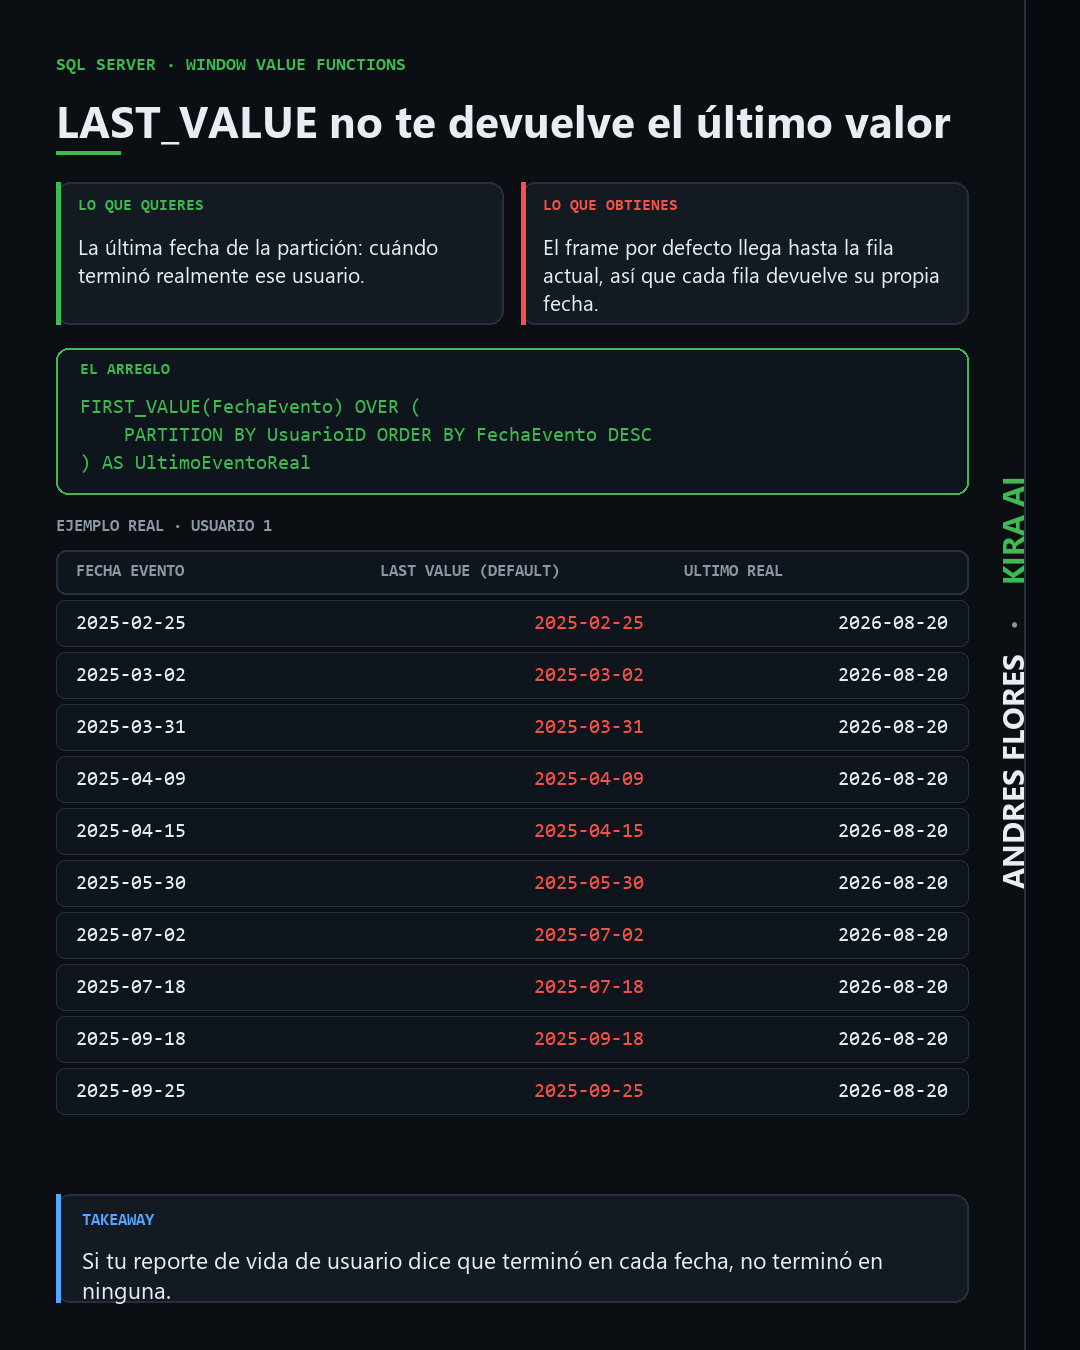
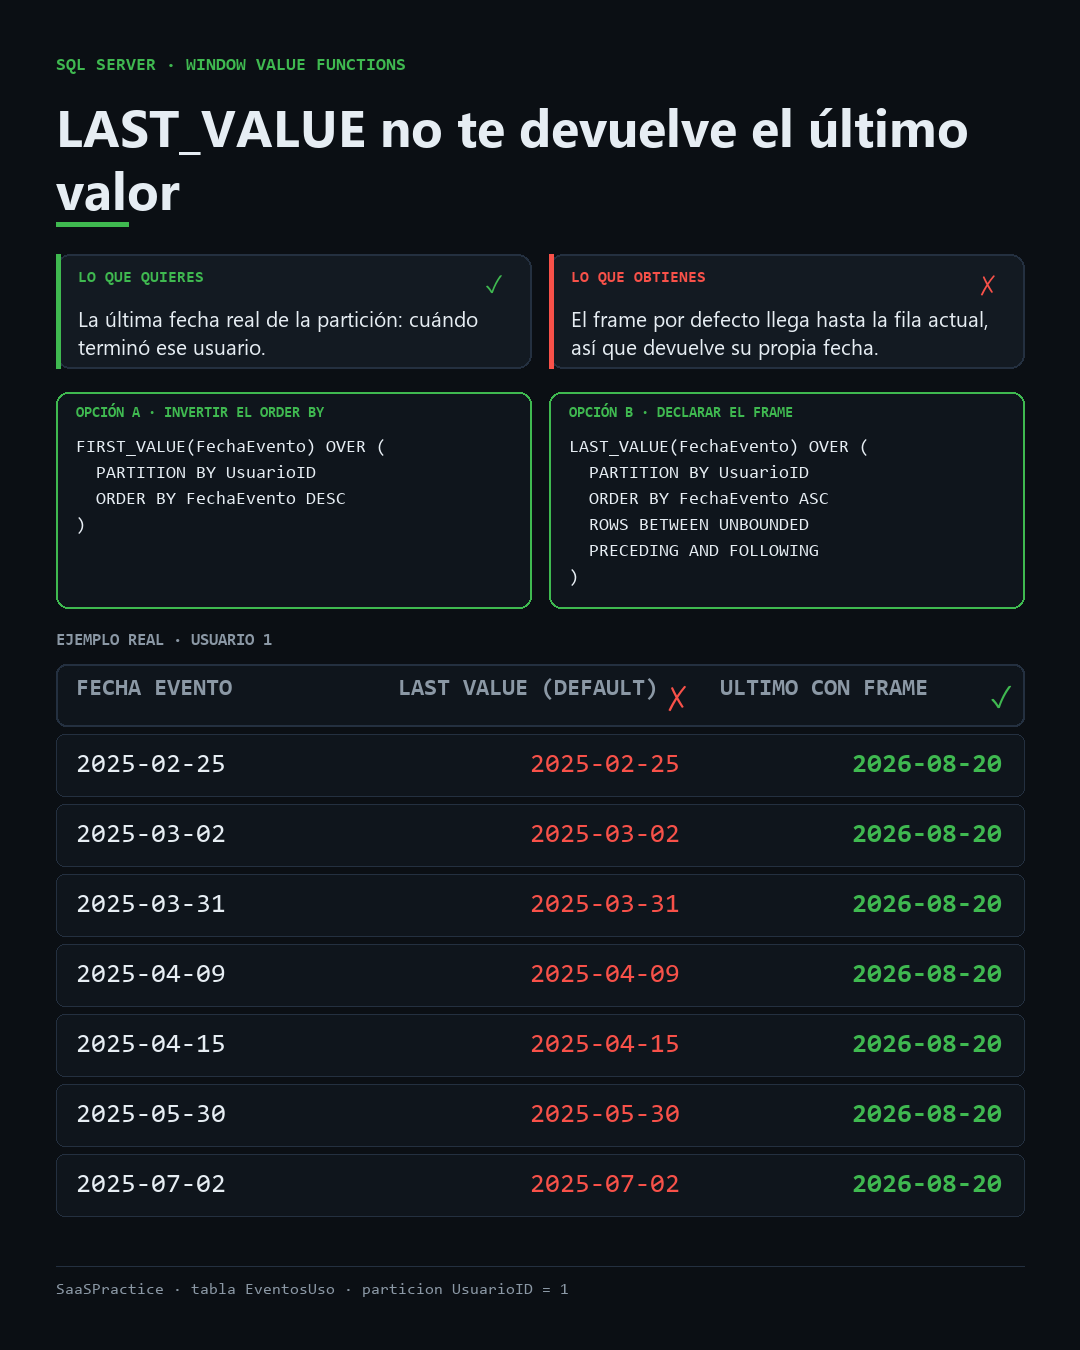
feat: make post images signature-free with badges, multi-solution fix block and footer

diff --git a/scripts/generar-imagen-post.py b/scripts/generar-imagen-post.py
@@ -22,6 +22,7 @@ MONO = os.path.join(FONT_DIR, "consola.ttf")
 MONO_B = os.path.join(FONT_DIR, "consolab.ttf")
 SANS = os.path.join(FONT_DIR, "segoeui.ttf")
 SANS_B = os.path.join(FONT_DIR, "segoeuib.ttf")
+SYM = os.path.join(FONT_DIR, "seguisym.ttf")
 
 KEYWORDS = {
     "SELECT", "FROM", "WHERE", "GROUP", "BY", "ORDER", "LEFT", "JOIN",
@@ -119,6 +120,9 @@ def draw_cards(d, cfg, margin, content_w, y):
         rounded(d, [x, y, x + cw, y + ch], 14, PANEL, BORDER, 2)
         d.rectangle([x, y, x + 4, y + ch], fill=accent)
         d.text((x + 22, y + 16), c["label"].upper(), font=font(MONO_B, 16), fill=accent)
+        if c.get("icon"):
+            ic = font(SYM, 24)
+            d.text((x + cw - 46, y + 13), c["icon"], font=ic, fill=accent)
         for j, line in enumerate(wrap(d, c["text"], body_f, cw - 44)[:4]):
             d.text((x + 22, y + 50 + j * 28), line, font=body_f, fill=TEXT)
     return y + ch
@@ -128,31 +132,48 @@ def draw_fix(d, cfg, margin, content_w, y):
     fix = cfg.get("fix")
     if not fix:
         return y
-    lines = fix["code"]
-    lh = 28
-    h = 50 + lh * len(lines) + 12
-    rounded(d, [margin, y, margin + content_w, y + h], 12, PANEL_ALT, GREEN, 2)
-    d.text((margin + 24, y + 14), fix.get("label", "fix").upper(), font=font(MONO_B, 16), fill=GREEN)
-    f = font(MONO, 20)
-    for i, line in enumerate(lines):
-        d.text((margin + 24, y + 50 + i * lh), line, font=f, fill=GREEN)
+    blocks = fix if isinstance(fix, list) else [fix]
+    gap = 18
+    bw = (content_w - gap * (len(blocks) - 1)) // len(blocks)
+    f = font(MONO, 18)
+    lh = 26
+    h = 0
+    for b in blocks:
+        h = max(h, 48 + lh * len(b["code"]) + 12)
+    for i, b in enumerate(blocks):
+        x = margin + i * (bw + gap)
+        rounded(d, [x, y, x + bw, y + h], 12, PANEL_ALT, GREEN, 2)
+        d.text((x + 20, y + 13), b.get("label", "fix").upper(), font=font(MONO_B, 15), fill=GREEN)
+        for j, line in enumerate(b["code"]):
+            d.text((x + 20, y + 46 + j * lh), line, font=f, fill=TEXT)
     return y + h
 
 
 def draw_grid(d, cfg, margin, content_w, y, bottom_limit, col_colors=None):
     cols = cfg["columns"]
     col_w = content_w // len(cols)
-    rounded(d, [margin, y, margin + content_w, y + 44], 10, PANEL_ALT, BORDER, 2)
-    head_f = font(MONO_B, 17)
+    badges = cfg.get("badges", {})
+    fs = cfg.get("font_size", 20)
+    row_h = cfg.get("row_h", 46)
+    head_fs = max(15, fs - 3)
+    rounded(d, [margin, y, margin + content_w, y + row_h], 10, PANEL_ALT, BORDER, 2)
+    head_f = font(MONO_B, head_fs)
     for i, c in enumerate(cols):
-        d.text((margin + 20 + i * col_w, y + 13), c.upper(), font=head_f, fill=MUTED)
-    y += 50
-    row_h = 46
-    gap = 6
+        cx = margin + 20 + i * col_w
+        d.text((cx, y + 13), c.upper(), font=head_f, fill=MUTED)
+        b = badges.get(str(i))
+        if b:
+            bcol = {"bad": RED, "good": GREEN}.get(b, MUTED)
+            mark = "✗" if b == "bad" else "✓"
+            mf = font(SYM, head_fs + 6)
+            mw = d.textlength(mark, font=mf)
+            d.text((cx + col_w - 30 - mw, y + 11), mark, font=mf, fill=bcol)
+    y += row_h + 8
+    gap = cfg.get("gap", 6)
     max_rows = max(1, int((bottom_limit - 24 - y) // (row_h + gap)))
     rows = cfg["rows"][:max_rows]
-    num_f = font(MONO, 20)
-    num_b = font(MONO_B, 20)
+    num_f = font(MONO, fs)
+    num_b = font(MONO_B, fs)
     for r_i, row in enumerate(rows):
         top = cfg.get("highlight_rows", [])
         bg = PANEL if r_i in top else PANEL_ALT
@@ -161,13 +182,19 @@ def draw_grid(d, cfg, margin, content_w, y, bottom_limit, col_colors=None):
             d.rectangle([margin, y, margin + 3, y + row_h], fill=GREEN)
         for i, cell in enumerate(row):
             val = str(cell)
-            f = num_b if r_i in top else num_f
-            color = GREEN if r_i in top else (col_colors or {}).get(str(i), TEXT)
+            good = badges.get(str(i)) == "good"
+            bad = badges.get(str(i)) == "bad"
+            f = num_b if (r_i in top or good) else num_f
+            color = GREEN if (r_i in top or good) else (col_colors or {}).get(str(i), TEXT)
+            if bad and r_i not in top:
+                color = col_colors or {}
+                color = color.get(str(i), RED)
             w_px = d.textlength(val, font=f)
+            ty = y + (row_h - fs - 4) // 2 + 2
             if i == 0:
-                d.text((margin + 20, y + 14), val, font=f, fill=color)
+                d.text((margin + 20, ty), val, font=f, fill=color)
             else:
-                d.text((margin + 20 + i * col_w + col_w - 40 - w_px, y + 14), val, font=f, fill=color)
+                d.text((margin + 20 + i * col_w + col_w - 40 - w_px, ty), val, font=f, fill=color)
         y += row_h + gap
     return y
 
@@ -205,28 +232,31 @@ def build(cfg):
     img = Image.new("RGB", (W, H), BG)
     d = ImageDraw.Draw(img)
 
-    d.rectangle([W - SIDEBAR, 0, W, H], fill="#070A0E")
-    d.line([(W - SIDEBAR, 0), (W - SIDEBAR, H)], fill=BORDER, width=2)
-
-    draw_sidebar(img, cfg.get("author", "Andres Flores"))
-    d = ImageDraw.Draw(img)
+    signature = bool(cfg.get("signature", True)) and bool(cfg.get("author"))
+    if signature:
+        d.rectangle([W - SIDEBAR, 0, W, H], fill="#070A0E")
+        d.line([(W - SIDEBAR, 0), (W - SIDEBAR, H)], fill=BORDER, width=2)
+        draw_sidebar(img, cfg.get("author", "Andres Flores"))
+        d = ImageDraw.Draw(img)
 
     margin = 56
-    content_w = W - SIDEBAR - margin * 2
+    content_w = (W - SIDEBAR if signature else W) - margin * 2
     take_h = 108
     take_y = H - 48 - take_h
+    if not (cfg.get("show_takeaway", True) and cfg.get("takeaway")):
+        take_y = H - 40
     y = 56
 
     d.text((margin, y), cfg["label"].upper(), font=font(MONO_B, 18), fill=GREEN)
     y += 34
 
     if cfg.get("layout") == "concept":
-        title_f = font(SANS_B, 44)
-        for line in wrap(d, cfg["title"], title_f, content_w)[:2]:
+        title_f = font(SANS_B, cfg.get("title_size", 50))
+        for line in wrap(d, cfg["title"], title_f, content_w)[:3]:
             d.text((margin, y), line, font=title_f, fill=TEXT)
-            y += 56
-        y += 6
-        d.line([(margin, y), (margin + 64, y)], fill=GREEN, width=4)
+            y += int(cfg.get("title_size", 50) * 1.22)
+        y += 8
+        d.line([(margin, y), (margin + 72, y)], fill=GREEN, width=5)
         y += 30
         y = draw_cards(d, cfg, margin, content_w, y) + 24
         y = draw_fix(d, cfg, margin, content_w, y) + 24
@@ -234,7 +264,11 @@ def build(cfg):
             d.text((margin, y), cfg["example_label"].upper(), font=font(MONO_B, 17), fill=MUTED)
             y += 32
         y = draw_grid(d, cfg, margin, content_w, y, take_y, cfg.get("col_colors")) + 6
-        draw_takeaway(d, cfg, margin, content_w, y, take_y, take_h)
+        if cfg.get("show_takeaway", True) and cfg.get("takeaway"):
+            draw_takeaway(d, cfg, margin, content_w, y, take_y, take_h)
+        elif cfg.get("footer"):
+            d.line([(margin, H - 84), (margin + content_w, H - 84)], fill=BORDER, width=1)
+            d.text((margin, H - 68), cfg["footer"], font=font(MONO, 16), fill=MUTED)
         return img
 
     title_f = font(SANS_B, 40)

diff --git a/AGENTS.md b/AGENTS.md
@@ -10,9 +10,9 @@ proceso; las reglas de estilo viven en `skills/linkedin-post-style/SKILL.md`.
    mode Markdown falla con `can't parse entities`. El enfasis viene de la estructura,
    no del markdown.
 2. **La imagen la genera el agente** con `scripts/generar-imagen-post.py`: dark, 1080x1350,
-   con la firma `KIRA AI` en la barra lateral vertical. No se piden capturas al usuario
+   sin firma ni marca lateral. No se piden capturas al usuario
    y **no se usan modelos de visión** (quedaron descartados).
-3. **La firma `KIRA AI` solo existe en la imagen.** El texto del post nunca nombra a
+3. **La imagen no lleva el nombre de Andres ni la marca.** El texto del post tampoco nombra a
    agentes, IA ni automatización.
 4. **5 bullets, 1 emoji cada uno**, cierre de 1-2 líneas de impacto y hashtags al final.
 5. **La imagen se sube a GitHub antes de enviar el borrador.** El `imageUrl` es una URL
@@ -50,12 +50,15 @@ python scripts/generar-imagen-post.py --config <config.json> --out assets/screen
 
 Config JSON:
 - `layout`: `code` (query completa arriba, grilla abajo) o `concept` (gancho, tarjetas de
-  "lo que quieres / lo que obtienes", el arreglo y el ejemplo abajo). Para posts que
-  explican un concepto o un error, `concept` retiene más.
-- Comunes: `label`, `title`, `columns`, `rows`, `highlight_rows`, `takeaway`.
-- `author`: nombre que va en la barra lateral (por defecto `Andres Flores`).
-- Solo `concept`: `cards` (lista de `{label, text, tone}` con tone `green|amber|red`),
-  `fix` (`{label, code}`), `example_label`, `col_colors` (índice de columna → color).
+  "lo que quieres / lo que obtienes", las dos opciones de arreglo y el ejemplo abajo).
+  Para posts que explican un concepto o un error, `concept` retiene más.
+- Comunes: `label`, `title`, `title_size`, `columns`, `rows`, `font_size`, `row_h`,
+  `highlight_rows`, `takeaway`, `show_takeaway`, `footer`.
+- `signature`: por defecto `false` (la imagen no lleva nombre ni marca lateral). Con
+  `true` + `author` se recupera la barra vertical.
+- Solo `concept`: `cards` (lista de `{label, text, tone, icon}` con tone `green|amber|red`),
+  `fix` (uno o varios `{label, code}` para mostrar más de una solución), `example_label`,
+  `badges` (índice de columna → `bad` o `good`, dibuja ✗/✓), `col_colors`.
 
 Paleta: fondo `#0B0F14`, paneles `#131A22`/`#0F151C`, bordes `#243040`, texto `#E6EDF3`,
 verde `#3FB950` (SQL y fila destacada), azul `#58A6FF` (takeaway). Fuentes: `consola.ttf`,

diff --git a/README.md b/README.md
@@ -66,9 +66,11 @@ La imagen del post no es una captura del usuario: la genera el propio agente con
 `scripts/generar-imagen-post.py`, y siempre con el mismo diseño.
 
 - Lienzo 1080x1350 (4:5), tema dark.
-- Pregunta de negocio arriba, panel SQL con resaltado, grilla con **resultados reales**
-  (el query se ejecuta, no se inventa), caja de takeaway.
-- Firma `KIRA AI` en la barra lateral vertical, siempre en el mismo lugar.
+- Dos layouts: `code` (query completa arriba, grilla abajo) y `concept` (gancho, tarjetas
+  "lo que quieres / lo que obtienes", las dos formas de resolverlo y el ejemplo real
+  abajo, con ✗/✓ sobre las columnas).
+- Grilla con **resultados reales** (el query se ejecuta, no se inventa) y pie de fuente.
+- Sin firma ni marca en la imagen: la identidad la pone el texto y el contenido.
 
 ```bash
 python scripts/generar-imagen-post.py --config post.json --out assets/screenshots/mi-post.png
@@ -78,7 +80,7 @@ El `imageUrl` que viaja al workflow es la URL `raw.githubusercontent.com` de esa
 la imagen se sube a GitHub **antes** de llamar al webhook: n8n la descarga desde esa URL y
 responde 404 si el archivo todavía no está publicado.
 
-![Ejemplo de la imagen dark: query de window ranking functions con su grilla y la firma KIRA AI](assets/screenshots/ssms-seccion14.png)
+![Ejemplo de la imagen dark: el error de LAST_VALUE con sus dos correcciones y el ejemplo real](assets/screenshots/ssms-seccion15.png)
 
 ## Capturas en vivo
 

diff --git a/skills/linkedin-post-style/SKILL.md b/skills/linkedin-post-style/SKILL.md
@@ -85,8 +85,10 @@ de la ejecucion real.
      corta con `...` al final; nunca al principio).
   4. Grilla de resultados con 5-8 filas REALES, la primera resaltada en verde.
   5. Caja TAKEAWAY con una sola idea de criterio/decision.
-- Barra lateral vertical de 56px: `ANDRES FLORES` (blanco) + `KIRA AI` (verde), rotados,
-  siempre en el mismo lugar. Es la identidad del post: la persona y la herramienta.
+- Sin firma en la imagen: no lleva nombre ni marca lateral. Andres lo pidió así. Si un
+  post necesita identidad, se activa con `signature: true` + `author`.
+- El takeaway es opcional (`show_takeaway: false` lo quita y deja pie de fuente con
+  `footer`). Para posts que ya tienen gancho + ejemplo, quitarlo suele retener mejor.
 - Dos layouts, según el post:
   - `code`: etiqueta, título, panel SQL con la query completa, grilla de resultados y
     takeaway. Para posts donde lo interesante es la query.
